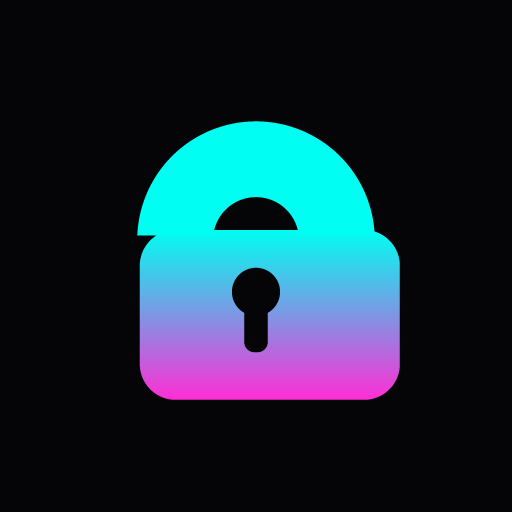
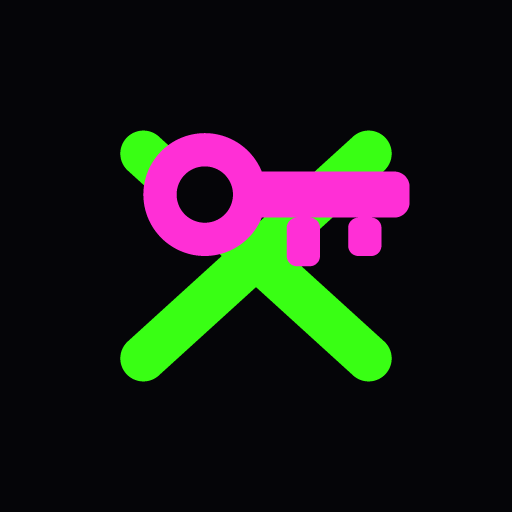
Lisää latausvalikko (Android/Linux/Mac) ja uusi X+avain-ikoni

Changed region(s): [[0.2188, 0.2188, 0.8125, 0.7812]]

diff --git a/index.html b/index.html
@@ -17,17 +17,18 @@
 </head>
 <body>
   <header class="app-header">
-    <svg class="header-icon" viewBox="0 0 512 512" aria-hidden="true">
-      <defs>
-        <linearGradient id="lg" x1="0" y1="0" x2="0" y2="1">
-          <stop offset="0" stop-color="#00fff2"/>
-          <stop offset="1" stop-color="#ff2fd6"/>
-        </linearGradient>
-      </defs>
-      <circle cx="256" cy="240" r="100" fill="none" stroke="#00fff2" stroke-width="76" stroke-dasharray="314 314" stroke-dashoffset="120"/>
-      <rect x="140" y="230" width="232" height="170" rx="36" fill="url(#lg)"/>
-      <circle cx="256" cy="292" r="24" fill="#050508"/>
-      <rect x="244" y="292" width="24" height="60" rx="10" fill="#050508"/>
+    <svg class="header-icon" viewBox="0 0 100 100" aria-hidden="true">
+      <g stroke="#39ff14" stroke-width="11" stroke-linecap="round">
+        <line x1="21" y1="24" x2="79" y2="76"/>
+        <line x1="79" y1="24" x2="21" y2="76"/>
+      </g>
+      <g fill="#ff2fd6">
+        <circle cx="40" cy="38" r="13"/>
+        <rect x="48" y="33" width="32" height="9" rx="4"/>
+        <rect x="57" y="42" width="8" height="11" rx="3"/>
+        <rect x="69" y="42" width="7" height="8" rx="3"/>
+      </g>
+      <circle cx="40" cy="38" r="6" fill="#050508"/>
     </svg>
     <h1>ReverseKeyX</h1>
   </header>
@@ -67,12 +68,50 @@
     <button id="btn-share" class="ghost">Jaa salakoodi</button>
   </footer>
 
-  <a id="btn-apk" class="apk-fab" href="./salakoodi.apk" download aria-label="Asenna Android-sovellus">
+  <button id="btn-apk" class="apk-fab" aria-label="Lataa sovellus" aria-expanded="false">
     <svg viewBox="0 0 24 24" aria-hidden="true">
       <path d="M12 16V4M6 10l6 6 6-6" fill="none" stroke="currentColor" stroke-width="2.4" stroke-linecap="round" stroke-linejoin="round"/>
       <path d="M4 20h16" stroke="currentColor" stroke-width="2.4" stroke-linecap="round"/>
     </svg>
-  </a>
+  </button>
+
+  <div id="dl-sheet" class="sheet-overlay hidden" role="dialog" aria-modal="true" aria-label="Lataa ReverseKeyX">
+    <div class="sheet">
+      <button id="btn-sheet-close" class="sheet-close" aria-label="Sulje">&times;</button>
+      <h2>Lataa ReverseKeyX</h2>
+      <div class="dl-options">
+        <a class="dl-option" href="./salakoodi.apk" download>
+          <span class="dl-ico android">
+            <svg viewBox="0 0 24 24" fill="none" stroke="currentColor" stroke-width="2" stroke-linecap="round" stroke-linejoin="round">
+              <rect x="7" y="3" width="10" height="18" rx="2"/>
+              <line x1="11" y1="17" x2="13" y2="17"/>
+            </svg>
+          </span>
+          <span class="dl-text"><strong>Android</strong><small>APK-tiedosto</small></span>
+        </a>
+        <a class="dl-option" href="./ReverseKeyX.desktop" download>
+          <span class="dl-ico linux">
+            <svg viewBox="0 0 24 24" fill="none" stroke="currentColor" stroke-width="2" stroke-linecap="round" stroke-linejoin="round">
+              <rect x="3" y="4" width="18" height="16" rx="2"/>
+              <polyline points="7 9 10 12 7 15"/>
+              <line x1="13" y1="15" x2="17" y2="15"/>
+            </svg>
+          </span>
+          <span class="dl-text"><strong>Linux</strong><small>Pikakuvake työpöydälle</small></span>
+        </a>
+        <a class="dl-option" href="./ReverseKeyX.webloc" download>
+          <span class="dl-ico mac">
+            <svg viewBox="0 0 24 24" fill="none" stroke="currentColor" stroke-width="2" stroke-linecap="round" stroke-linejoin="round">
+              <rect x="3" y="4" width="18" height="13" rx="2"/>
+              <line x1="12" y1="17" x2="12" y2="20"/>
+              <line x1="8" y1="20" x2="16" y2="20"/>
+            </svg>
+          </span>
+          <span class="dl-text"><strong>Mac</strong><small>Pikakuvake työpöydälle</small></span>
+        </a>
+      </div>
+    </div>
+  </div>
 
   <script src="./app.js"></script>
 </body>

diff --git a/style.css b/style.css
@@ -46,7 +46,7 @@ body {
   width: 40px;
   height: 40px;
   flex: none;
-  filter: drop-shadow(0 0 8px rgba(0, 255, 242, 0.6));
+  filter: drop-shadow(0 0 6px rgba(57, 255, 20, 0.55)) drop-shadow(0 0 10px rgba(255, 47, 214, 0.5));
 }
 
 .app-header h1 {
@@ -223,4 +223,119 @@ button:active {
 
 .apk-fab:active {
   opacity: 0.7;
+}
+
+.sheet-overlay {
+  position: fixed;
+  inset: 0;
+  background: rgba(5, 5, 8, 0.75);
+  display: flex;
+  align-items: flex-end;
+  justify-content: center;
+  z-index: 100;
+}
+
+.sheet-overlay.hidden {
+  display: none;
+}
+
+.sheet {
+  background: var(--bg-elev);
+  border: 1px solid var(--border);
+  border-radius: 20px 20px 0 0;
+  padding: 24px 20px calc(24px + env(safe-area-inset-bottom));
+  width: 100%;
+  max-width: 520px;
+  position: relative;
+}
+
+.sheet h2 {
+  font-size: 20px;
+  margin-bottom: 16px;
+  background: linear-gradient(90deg, #39ff14, #ff2fd6);
+  -webkit-background-clip: text;
+  background-clip: text;
+  -webkit-text-fill-color: transparent;
+}
+
+.sheet-close {
+  position: absolute;
+  top: 10px;
+  right: 12px;
+  background: transparent;
+  border: none;
+  color: var(--muted);
+  font-size: 26px;
+  line-height: 1;
+  cursor: pointer;
+  padding: 4px 10px;
+}
+
+.dl-options {
+  display: flex;
+  flex-direction: column;
+  gap: 10px;
+}
+
+.dl-option {
+  display: flex;
+  align-items: center;
+  gap: 14px;
+  background: var(--bg-input);
+  border: 1px solid var(--border);
+  border-radius: var(--radius);
+  padding: 12px 14px;
+  text-decoration: none;
+  color: var(--text);
+  -webkit-tap-highlight-color: transparent;
+}
+
+.dl-option:active {
+  border-color: var(--accent);
+}
+
+.dl-ico {
+  width: 42px;
+  height: 42px;
+  border-radius: 10px;
+  display: flex;
+  align-items: center;
+  justify-content: center;
+  flex: none;
+  background: rgba(255, 255, 255, 0.04);
+}
+
+.dl-ico svg {
+  width: 24px;
+  height: 24px;
+}
+
+.dl-ico.android {
+  color: #39ff14;
+  box-shadow: inset 0 0 0 1px rgba(57, 255, 20, 0.35);
+}
+
+.dl-ico.linux {
+  color: #00fff2;
+  box-shadow: inset 0 0 0 1px rgba(0, 255, 242, 0.35);
+}
+
+.dl-ico.mac {
+  color: #ff2fd6;
+  box-shadow: inset 0 0 0 1px rgba(255, 47, 214, 0.35);
+}
+
+.dl-text {
+  display: flex;
+  flex-direction: column;
+  gap: 2px;
+}
+
+.dl-text strong {
+  font-size: 16px;
+}
+
+.dl-text small {
+  color: var(--muted);
+  font-size: 13px;
 }

diff --git a/app.js b/app.js
@@ -166,6 +166,33 @@
     });
   }
 
+  var btnApk = document.getElementById("btn-apk");
+  var dlSheet = document.getElementById("dl-sheet");
+  var btnSheetClose = document.getElementById("btn-sheet-close");
+
+  function openSheet() {
+    dlSheet.classList.remove("hidden");
+    btnApk.setAttribute("aria-expanded", "true");
+  }
+
+  function closeSheet() {
+    dlSheet.classList.add("hidden");
+    btnApk.setAttribute("aria-expanded", "false");
+  }
+
+  btnApk.addEventListener("click", openSheet);
+  btnSheetClose.addEventListener("click", closeSheet);
+  dlSheet.addEventListener("click", function (event) {
+    if (event.target === dlSheet) {
+      closeSheet();
+    }
+  });
+  document.addEventListener("keydown", function (event) {
+    if (event.key === "Escape") {
+      closeSheet();
+    }
+  });
+
   document.getElementById("btn-share").addEventListener("click", function () {
     var output = document.getElementById("output-encrypt");
     var text = output.textContent;
